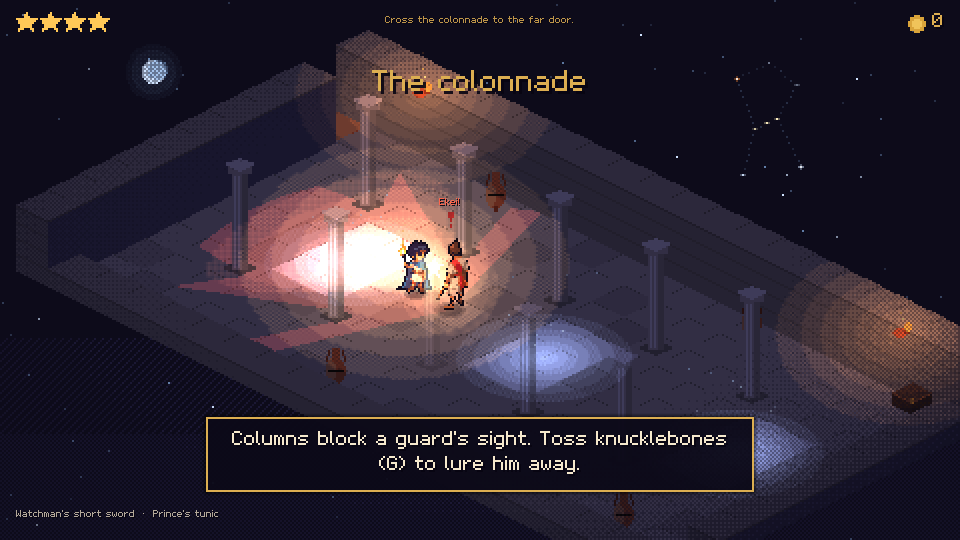
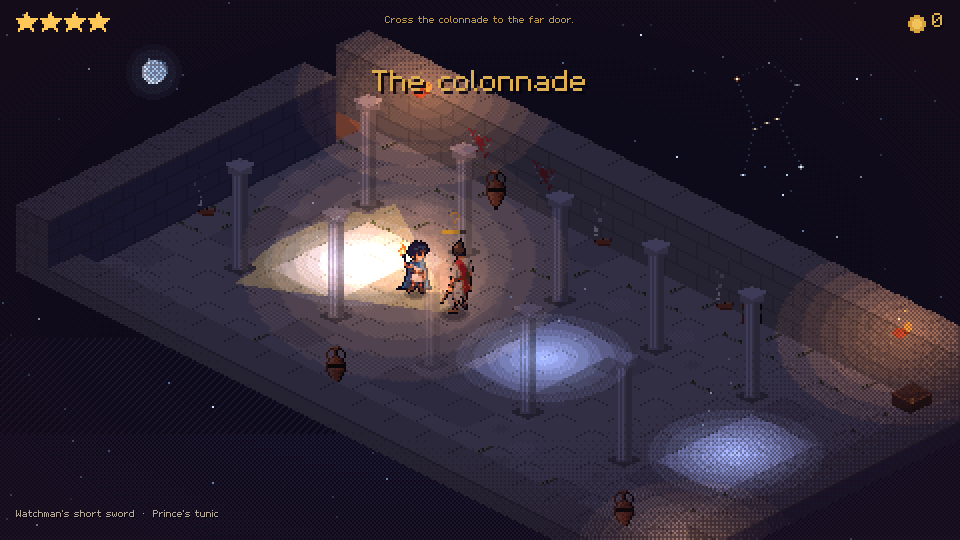
Write the second morning summary and save six fresh screenshots

diff --git a/docs/dev/POLISH.md b/docs/dev/POLISH.md
@@ -3,49 +3,71 @@
 Polish pass on the `v1-prototype` branch: real character sprites, game feel, atmosphere, UI,
 sound and tuning. The checklist is in priority order; the dated log is at the bottom.
 
-## Morning summary (2026-10-19, session stopped at 80% of the 5-hour window)
+## Morning summary (2026-10-19, second session; stopped at about 55% of the 5-hour window)
 
-**What changed** (8 commits, all tests pass: 118):
+Two sessions ran overnight. The first (8 commits) did the sprites, game feel, atmosphere, the
+pixel font and new sounds. The second (32 commits, ending with this one) worked down the rest of
+the list and then polished whatever looked weakest in screenshots. All 127 tests pass.
 
-1. **Real character sprites.** `tools/process_generated.py` turns the six ChatGPT sheets in
-   `art/generated/` into 11 palette-true sprites in `art/final/` (Cedalion, Watchman, Spearman,
-   Hoplite front and back; Phineus; Shade). No sheet had animation frames, so characters get
-   procedural life instead: walk bob, step squash, breathing, squash and stretch, blob shadows.
-2. **Game feel.** Input buffering and attack chains, acceleration, trauma screen shake, hit-stop,
-   white hit flashes, knockback, a stagger shudder and dazed stars, toppling KOs with dust, a
-   perfect-parry beat (freeze, bell ring, zoom punch, slow motion), camera look-ahead, obols that
-   drift to you and chime higher in a streak. A "Screen shake" toggle is in the pause menu.
-3. **Atmosphere.** A night sky behind the open-air rooms with a moon and Orion, who sinks toward
-   the horizon as the run goes on (the sky is the clock); a dithered vignette; embers from the
-   torch, lamps and braziers; dust motes in moonlight; glinting water; redder guard lanterns that
-   turn red on alert. The star shrine's black wall notches and the flat-looking portico are fixed.
-4. **UI.** An original pixel font made in-repo (`tools/gen_font.py`), room objectives at the top
-   of the screen, first-visit control hints per room, an obol counter pop, and a title screen
-   that draws Orion line by line.
-5. **Sound.** Four footstep takes, a bronze-bell parry ring, an alert stinger, and music layers
-   that ease in fast and linger (all generated by `tools/gen_audio.py`).
+**Second session, in order of how much you'll notice:**
 
-**Look at first:** `docs/dev/screens/` (six fresh screenshots), then play the colonnade and try
-a parry: `godot --path . -- --room=colonnade` (take the sword in the Lion Gate first, or start at
-the title).
+1. **The statue court's living statue.** The objective says "One of the stone men breathes", but
+   no such guard existed. Now one Hoplite stands in stone among the statues, lantern dark, only
+   breathing. Come within 2.6 tiles and he wakes (dust, colour floods back, "Ekeil!"); a noise or
+   an alarm wakes him too, and a sharp-eyed player can backstab him first. He guards the
+   right-hand stairs; the quiet left-hand steps stay safe.
+2. **Stealth readability.** Noise now shows as spreading rings sized to each noise's real radius
+   (the GDD's "noise spreads as rings"; before, rings only showed in F3). Holding G aims a
+   knucklebone with an arc and its 4-tile hearing ring, and releasing throws it. The screen's
+   edge reddens as guards grow aware and pulses while you're hunted. Sneaking crouches Cedalion.
+3. **Parry on the flash.** The glint now flares 0.32 s before the strike, so a press on the flash
+   (about 0.2 s of reaction time) lands in the 120 ms window. A bot test checks it: presses 0.20 to
+   0.26 s after the flash land, and presses at 0.05 s or 0.45 s miss.
+4. **Screens.** The title is recomposed (menu left, Orion right, the citadel skyline with vigil
+   lamps). The intro cards tell the story in a band of oil lamps that go out under Antares until
+   one flame is left. The end card is a vase frieze with a stamped rank and a counting score. The
+   shop has item icons, sections and coin prices. On the death card a torch gutters out.
+5. **The world.** The Lion Gate has its lintel and lion relief. The art now has cracks that look
+   like cracks, marble hoplite statues, shaded black-figure pithoi and amphorae, braziers with
+   animated flames, an olive tree, steps with treads, masonry on both wall faces, hanging ivy,
+   floor variety (worn, stained, mossy, leaves), glowing exit doors, smoking vigil lamps and red
+   scorpion daubs. Taking the Belt Star is now a beat (freeze, light burst, the star flying to
+   you, slow motion).
+6. **Sound.** Both music loops are rewritten: 48 s instead of 16 s, with a pad, a phrased lyre, an
+   aulos, an ostinato, drum fills and reverb. Room ambience is new: wind and crickets outdoors,
+   drips in the cistern, a draught in the storerooms. The pause menu has a volume slider.
+7. **Fixes.** The white blowout where torch, moon and lantern overlapped is gone (lights ease
+   off in moonlight and near Cedalion). Throws stop at walls but clear pots.
+
+**Look at first:** the six screenshots in `docs/dev/screens/`. Then play from the title
+(`godot --path .`) through the statue court: aim a knucklebone with G held, run past a guard to
+see the noise ring, and walk up the right-hand stairs.
 
 **Open questions and not done:**
 
 - **The hackathon rules on AI-made assets are unchecked.** The character art is AI-generated.
-- Nothing was felt by hand: the buffer (0.15 s), acceleration (26/20 tiles/s²), hit-stop lengths
-  and shake amounts are first guesses. Tuning (priority 6) wasn't started.
-- Pixel-font sizing: dense text (shop descriptions, objective line, stats) is drawn at 1× and
-  everything else at 2×. Check it on the projector; `UiKit.px()` is the one place to change it.
-- Where a guard's lantern cone overlaps the torch and moonlight (colonnade), the floor blows out
-  to near-white. It reads as danger, but it may be too much.
-- The music loops themselves are unchanged; the shop and end card are only restyled by the font;
-  the Shade (v2) is nearly invisible on dark floors.
-- Computer use wasn't used (it needs approval, and nobody could give it overnight). Worth
-  generating in Google AI Studio: a 4–6 frame walk cycle and a sword swing for Cedalion (front
-  and back, on magenta, same style as the torch sheet); wind-up and strike poses for the Watchman
-  and Spearman; a Hoplite shield bash; a lying-down KO pose; Alcyone (captive, v1) and Antares
-  (v2); Phineus's back view is not needed. `tools/process_generated.py` takes new sheets: add a
-  `JOBS` entry per view.
+- **Nobody has listened to the new music or ambience.** I judged them by levels, loop seams and a
+  spectrogram only. If they grate, `python tools/gen_audio.py` regenerates them, and everything is
+  in the `music` and `ambience` sections.
+- **Nothing was felt by hand.** Movement, buffer, hit-stop and shake are still first guesses. The
+  parry timing now has a bot test, but the band is narrow (about 0.18 to 0.28 s after the flash).
+  If playtesters miss, widen the weapons' `parry_window` (the GDD says 120 ms).
+- **Two design calls to confirm:** the living statue is a Hoplite in the statue court, before the
+  star shrine where Hoplites were first meant to appear; a toast explains his shield when he
+  wakes. And G is now hold-to-aim, release-to-throw (a tap still throws at once).
+- The lions on the Lion Gate are an impression at 480×270, not a readable carving. The Shade (v2)
+  is still nearly invisible on dark floors.
+- Worth generating for real art, as before: walk and swing frames for Cedalion, wind-up poses
+  for the guards, a KO pose, Alcyone. `tools/process_generated.py` takes new sheets.
+
+### First session (summary)
+
+Real character sprites from the ChatGPT sheets (`tools/process_generated.py` → `art/final/`)
+with procedural life (walk bob, squash, breathing, blob shadows); game feel (input buffering,
+acceleration, trauma shake, hit-stop, flashes, knockback, toppling KOs, the perfect-parry beat,
+camera look-ahead, magnetic obols); atmosphere (the night sky with Orion as the clock, vignette,
+embers, moon motes, glinting water); an in-repo pixel font, objectives and hints; new footsteps,
+a parry bell and an alert stinger.
 
 ## Checklist
 
@@ -60,8 +82,13 @@ the title).
 - [x] UI: in-repo pixel font, first-time control hints, objective line, title constellation,
       obol counter pop (shop and end card only restyled by the font so far)
 - [x] Sound: footstep variety, alert stinger, parry ring, smoother music layers
-- [ ] Sound: better music (the two loops are unchanged)
-- [ ] Tuning with timelines and bots
+- [x] Sound: better music (both loops rewritten, 48 s) and room ambience
+- [x] UI: shop, end card, intro cards, title and death card restyled; pause volume slider
+- [x] Tuning: parry timing (flash cue plus a bot test); detection rates checked (no change)
+- [x] Stealth readability: noise rings, knucklebone aim preview, danger vignette, sneak crouch
+- [x] GDD gaps: the living statue in the statue court; the Lion Gate; story props
+- [ ] Tuning by hand: movement, buffer, hit-stop, shake (needs a person playing)
+- [ ] Listen to the new music and ambience
 
 ## Notes
 
@@ -269,3 +296,6 @@ the title).
 - 2026-10-19: Walls. Tall walls now show block masonry on both faces (courses with staggered
   vertical joints; the shaded face had none), and the ivy walls have ivy hanging in strands from
   a clump along the top (a wandering stem with leaves either side) instead of scattered dots.
+- 2026-10-19: Wrote the morning summary and saved six fresh screenshots (title, Lion Gate,
+  colonnade duel, the living statue waking, the Belt Star beat, the end card), replacing the
+  first session's set. Usage at this point: 52% of the 5-hour window, 49% of the week.
